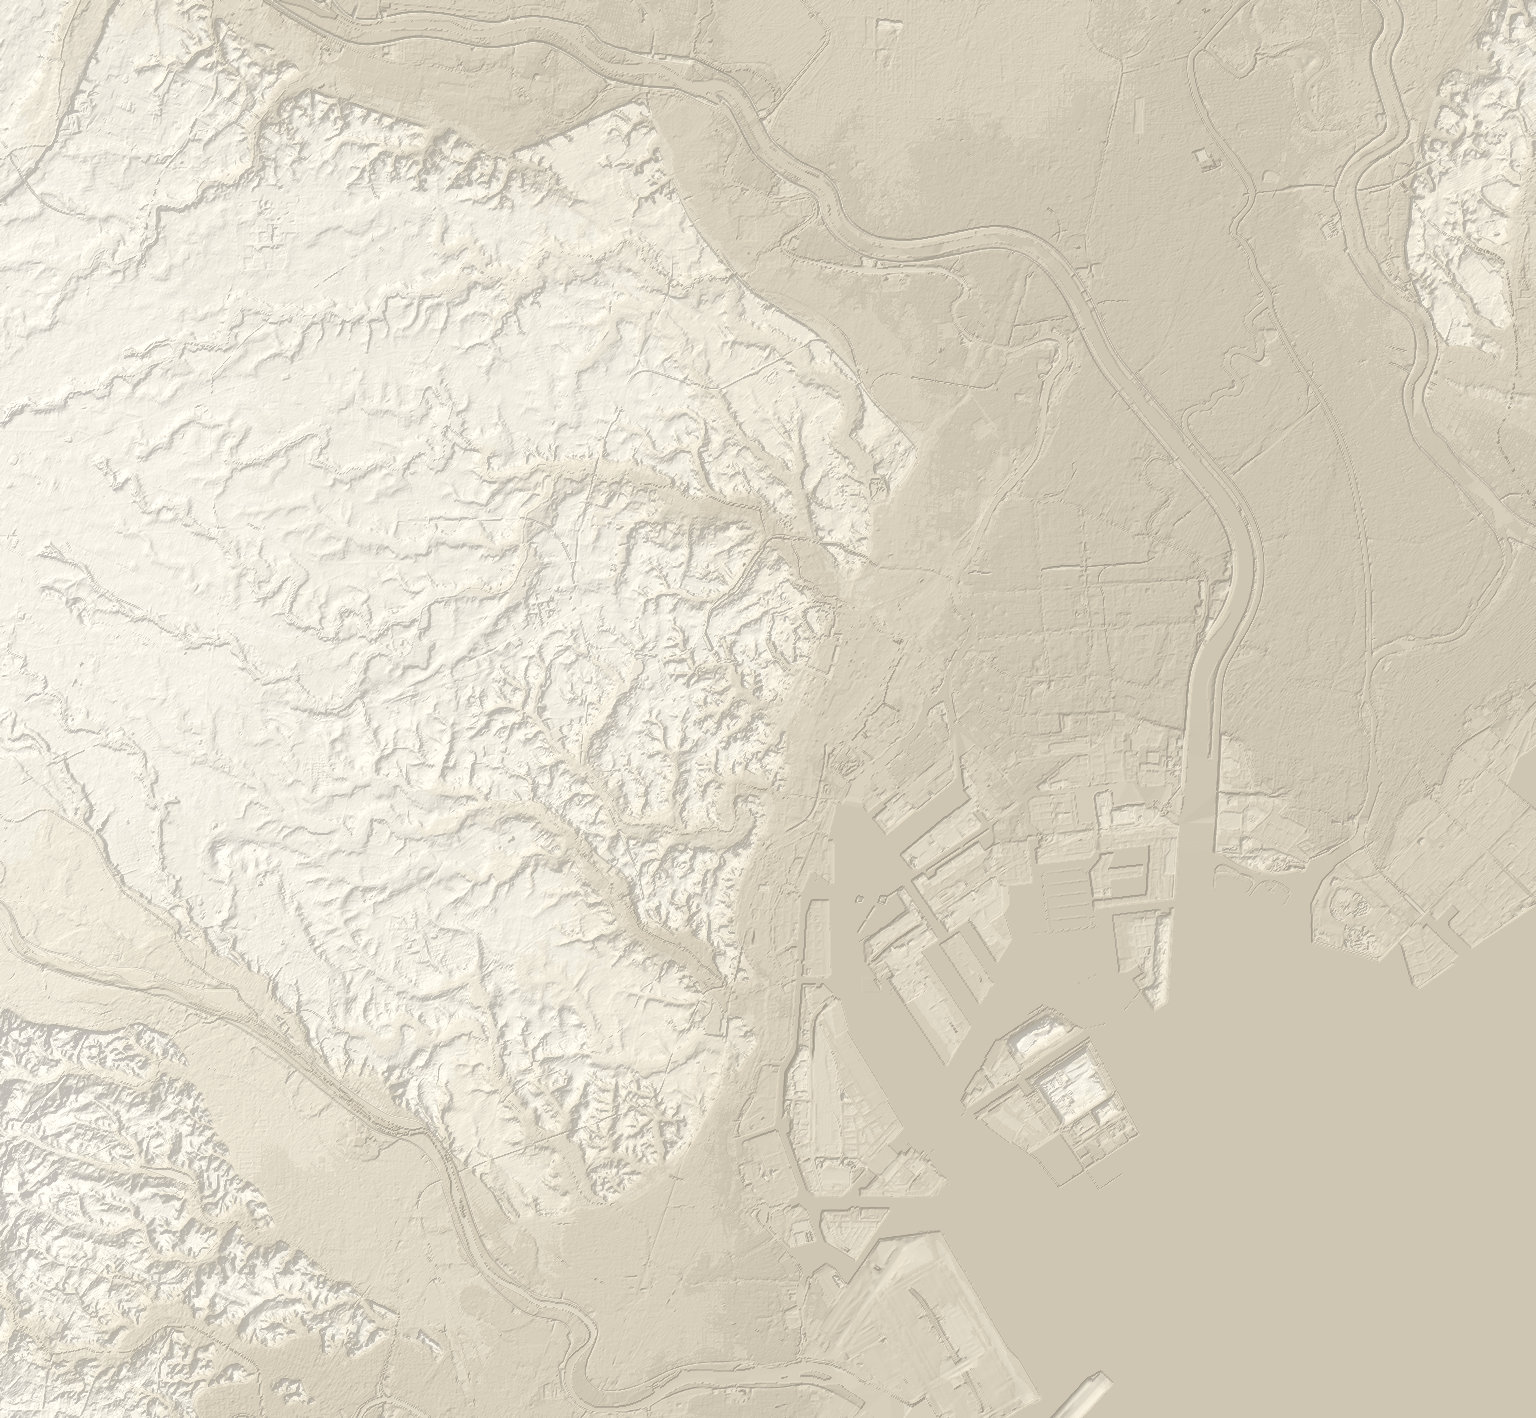
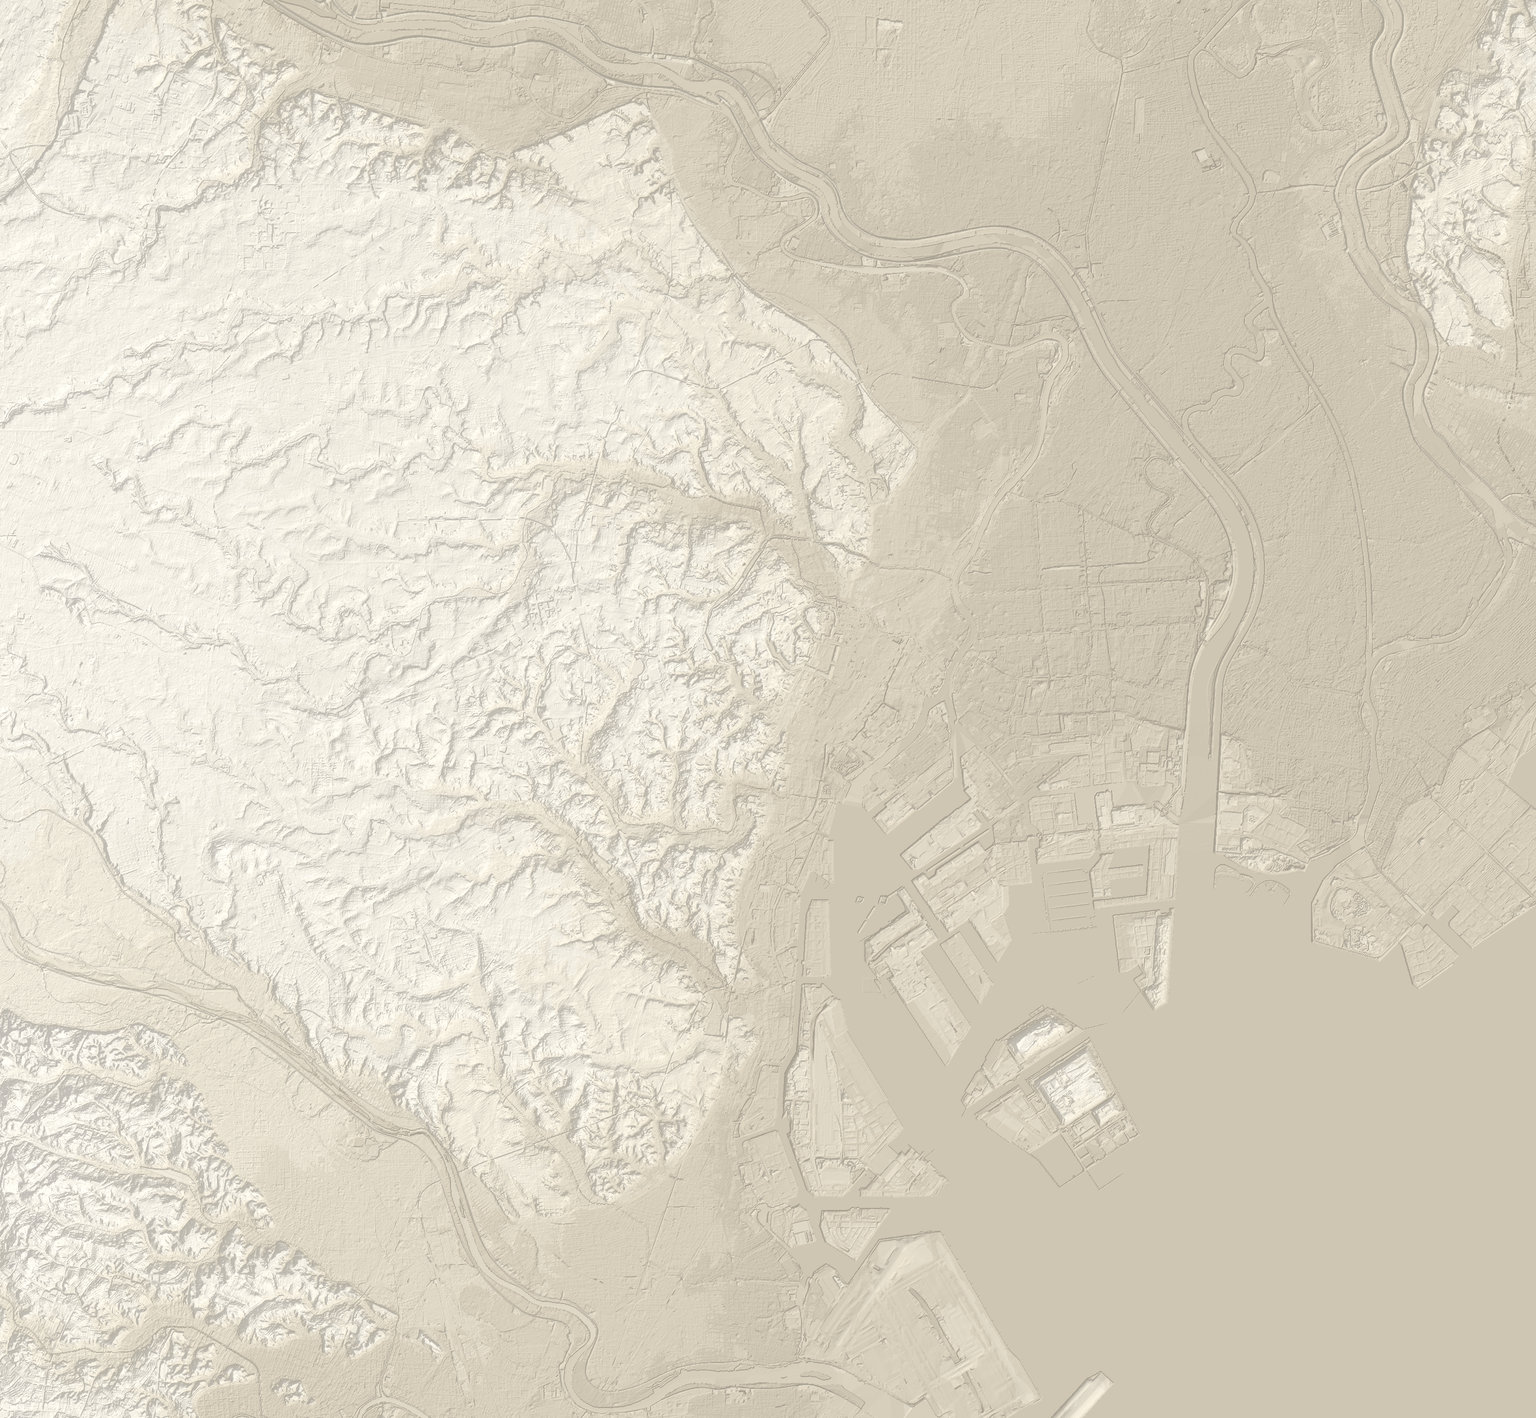
fix: 地形圖分兩級，拉近才換大的；順手修好按不到的「全圖」鈕
回報：拉近時地形畫質沒有提升，粗顆粒看起來像地形概念圖。

量出來的：relief.jpg 只有 1536×1418（約 21m/px），而地圖的框是 32.6km 寬。
拉到底時一個影像像素被撐成 12.5 個螢幕像素（DPR2 螢幕上是 25 個）——
標高分帶的硬邊界在那個倍率下變成階梯狀，「概念圖」正是這麼來的。
破口大約就在開場那一格（1.03），再拉近就開始看得見。

素材那側其實還有很多沒用：DEM5A 是 5m 網格（z=15 瓦片約 3.9m/px），
1536 只用掉 18%。焼き直して比べた（同一塊上野台地，各自放到拉到底的倍率）：
  1536  439KB  21.2m/px  → 一團看不出東西
  3072 1795KB  10.6m/px  → 不忍池與台地邊緣的路都回來了
  4096 3175KB   7.9m/px  → 再平滑一些，但增益遞減

取 3072。1536→3072 才是有效的那一段，3072→4096 是兩倍的重量換 1.33 倍；
而且展開後佔 35MB 對 62MB，手機上那個差別比畫質差別更要緊。要改只是動 HI_W。

一開始就載 1.8MB 會拖慢開場，所以分兩級：relief.jpg（440KB）先載，
等到「一個影像像素被撐成 1.5 個螢幕像素以上」才去換 relief-hi.jpg。
先載好再換 href——直接換中間會空一格，那比顆粒難看。
兩張由 fetch-dem.py 一次焼く（基本版從詳細版縮，不另外焼）：一次 --write 兩張都新，
不會有一張舊的。

🔴 順手修一個沒被回報的：手機上「全圖」鈕**看得到但按不到**。
#bar 是整片的，上半是透明漸層看起來什麼都沒有，卻把點擊全吃掉；
手機上它從 y=521 起算，正好蓋住縮放那一疊的最後一顆（428–536）。
桌機是 739 對 740，差一格躲過去，所以一直沒發現。
改法不是把鈕挪開，是讓空的地方透過去：#bar 收 pointer-events:none、滑桿自己收回
auto。驗過滑桿照樣拖得動（1000→136），時間軸那一帶現在也能直接拖地圖。

check-map 加驗這兩條：開場不該去載 1.8MB 的大圖、拉到底必須換成大的。
兩個方向壞掉都不會噴錯，一個只是開場變慢，一個只是地形變回概念圖。

diff --git a/src/map.js b/src/map.js
@@ -88,7 +88,7 @@ export function createMap(svg, views, geo, places, onPick) {
          そして §2.10 視点狩りは「地形を読め」と要求しているのに、
          この段差が地図に一本も描かれていなかった。
          紙と同じ等距円筒に焼き直してあるので、そのまま枠に貼れば重なる。 -->
-    <image href="data/geo/relief.jpg" x="0" y="0" width="${W}" height="${H}"
+    <image id="relief" href="data/geo/relief.jpg" x="0" y="0" width="${W}" height="${H}"
            preserveAspectRatio="none" opacity=".62"/>
     <path id="park" d="${multi(geo.park)}Z" fill="#b9c4a6" opacity=".5"/>
     <!-- 寺社の境内。江戸は寺の町——寺町はまとめて配置された都市計画の産物で、
@@ -299,9 +299,32 @@ export function createMap(svg, views, geo, places, onPick) {
   // 平移縮放：直接改 viewBox，不需要任何函式庫
   let vb = { x: 0, y: 0, w: W, h: H };
   let onChange = () => {};
+  // 🔴 地形圖有兩級，拉近了才換大的。
+  //
+  // 一張是不夠的：地圖可以縮放，而 relief.jpg 是 1536px（約 21m/px）——
+  // 拉到底時一個影像像素被撐成 12.5 個螢幕像素，地形就成了一張粗顆粒的
+  // 「概念圖」（實際被回報過）。但一開始就載 3072 那張，開場要多等 1.8MB。
+  // 所以：先用小的，等到真的看得出顆粒再換。兩張都由 tools/fetch-dem.py 一次焼く。
+  const reliefEl = svg.querySelector('#relief');
+  const RELIEF_BASE = 1536;                  // data/geo/relief.jpg 的寬度
+  let hiAsked = false;
+  const upgradeRelief = () => {
+    if (hiAsked) return;
+    const r = svg.getBoundingClientRect();
+    if (!r.width) return;
+    const s = Math.max(r.width / vb.w, r.height / vb.h);        // slice 的倍率
+    // 一個影像像素被撐成幾個螢幕像素。1.5 以下看不出來，以上開始有顆粒感。
+    if (s * W / RELIEF_BASE < 1.5) return;
+    hiAsked = true;
+    const big = new Image();
+    // 先載好再換 href。直接換的話中間會有一格空白——那比顆粒難看得多。
+    big.onload = () => reliefEl.setAttribute('href', big.src);
+    big.src = 'data/geo/relief-hi.jpg';
+  };
+
   const apply = () => {
     svg.setAttribute('viewBox', `${vb.x} ${vb.y} ${vb.w} ${vb.h}`);
-    relabel(); onChange();
+    relabel(); upgradeRelief(); onChange();
   };
   const toSvg = e => {
     const r = svg.getBoundingClientRect();

diff --git a/index.html b/index.html
@@ -117,8 +117,15 @@
   button:hover { background:#ffffff2e }
   button.ghost { background:none }
 
+  /* 🔴 pointer-events:none——這一條是整片的，而且上半是透明漸層，看起來什麼都沒有，
+     卻會把落在上面的點擊全部吃掉。手機上它從 y=521 起算，正好蓋住縮放那一疊的
+     最後一顆「全圖」（428–536），變成一顆看得到卻按不到的鈕（桌機 739 對 740，
+     差一格躲過去了，所以一直沒被發現）。
+     擋住的是「空的地方」，所以讓空的地方透過去，滑桿自己收回 auto 就好。
+     順帶好處：時間軸那一帶也能直接拖地圖了。 */
   #bar { position:fixed; left:0; right:0; bottom:0; padding:12px 20px 18px; text-align:center;
-         background:linear-gradient(transparent,#0e2233cc 40%) }
+         pointer-events:none; background:linear-gradient(transparent,#0e2233cc 40%) }
+  #bar #era { pointer-events:auto }
   #era { width:min(420px,60vw); accent-color:var(--gold); vertical-align:middle }
   #bar label { font-size:12px; opacity:.7; margin:0 10px }
   /* 拖動時的讀數。固定高度，不然出現／消失時整條 bar 會跳。 */

diff --git a/tools/fetch-dem.py b/tools/fetch-dem.py
@@ -41,7 +41,24 @@ BASE = "https://cyberjapandata.gsi.go.jp/xyz"
 SOURCES = [("dem5a_png", 15), ("dem_png", 14)]
 # src/map.js の B と同じ枠。ここがずれたら地形だけ別の場所を指す
 S, W_, N, E = 35.535, 139.565, 35.805, 139.925
-OUT_W, OUT_H = 1536, 1418    # 1000×923（地図の紙）と同じ比。約 21m/px
+# 出力サイズ。1000×923（地図の紙）と同じ比を保つこと。--size で変えられる。
+# 1536 は約 21m/px。DEM5A は 5m メッシュ（z=15 のタイルで約 3.9m/px）なので
+# 素材の側はもっと出せる——どこまで出すかは data/geo の重さとの相談。
+OUT_W, OUT_H = 1536, 1418
+# 🔴 二段で焼く。地図は拡大できるので一枚では足りない——1536 は約 21m/px、
+# いちばん寄ったところでは 1 画素が画面の 12.5 画素に伸びて、地形が「概念図」に
+# 見えてしまう（実際にそう報告された）。かといって詳細版を最初から読ませると
+# 開始が重い。だから：
+#   relief.jpg     1536（439KB）  最初に読む。引いて見るぶんにはこれで足りる
+#   relief-hi.jpg  3072（1.8MB）  粒が見え始めたら差し替える（src/map.js）
+# 4096（3.2MB, 7.9m/px）も焼けるが、3072 で構造はもう戻る。効くのは 1536→3072 の
+# ほうで、3072→4096 は倍の重さで 1.33 倍にしかならない。展開後のメモリも
+# 35MB 対 62MB——携帯ではその差のほうが効く。上げたければ HI_W を変えるだけ。
+#
+# 詳細版から縮めて基本版を作る（別々に焼かない）：面積平均で縮めるほうがきれいだし、
+# 二度焼く時間も要らない。そして何より**一度の --write で両方が出る**——
+# 片方だけ古いという事故が起きない。
+HI_W = 3072
 
 
 def txf(lon, z): return (lon + 180) / 360 * 2 ** z
@@ -140,9 +157,14 @@ ZFACTOR = 14
 
 
 def main():
+    global OUT_W, OUT_H          # 関数の先頭で宣言すること（既定値でも参照は参照）
     ap = argparse.ArgumentParser()
     ap.add_argument("--write", action="store_true")
+    ap.add_argument("--size", type=int, default=HI_W, help=f"詳細版の横幅（既定 {HI_W}）")
+    ap.add_argument("--quality", type=int, default=85)
     args = ap.parse_args()
+    OUT_W = args.size
+    OUT_H = round(OUT_W * 923 / 1000)      # 地図の紙と同じ比を崩さない
 
     z = np.full((OUT_H, OUT_W), np.nan, dtype=np.float32)
     for src, lvl in SOURCES:
@@ -214,14 +236,26 @@ def main():
     # 4:4:4（subsampling=0）にしているのは、色差を間引くと標高帯の境目が
     # にじむから——帯の境目こそこの図が伝えたいものなので。
     buf = io.BytesIO()
-    img.save(buf, "JPEG", quality=85, subsampling=0, optimize=True)
+    img.save(buf, "JPEG", quality=args.quality, subsampling=0, optimize=True)
     kb = buf.tell() / 1024
-    print(f"\n{OUT_W}×{OUT_H}  {kb:.0f}KB")
-    assert kb < 600, f"{kb:.0f}KB は大きすぎる"
-    out = ROOT / "data" / "geo" / "relief.jpg"
+    mpx = OUT_W * OUT_H / 1e6
+    m_per_px = (E - W_) * 111320 * math.cos(math.radians((N + S) / 2)) / OUT_W
+    print(f"\n{OUT_W}×{OUT_H}  {kb:.0f}KB  ({mpx:.2f}MP, {kb/mpx:.0f}KB/MP, {m_per_px:.1f}m/px)")
+    # 1 メガ画素あたりで見る。絶対値で縛ると --size を上げた瞬間に必ず落ちる
+    assert kb / mpx < 320, f"{kb/mpx:.0f}KB/MP は大きすぎる（圧縮が効いていない）"
+    # 基本版は詳細版を縮めて作る。別に焼き直さない（上の HI_W のところ参照）
+    base = img.resize((1536, 1418), Image.LANCZOS)
+    bbuf = io.BytesIO()
+    base.save(bbuf, "JPEG", quality=args.quality, subsampling=0, optimize=True)
+    bkb = bbuf.tell() / 1024
+    print(f"1536×1418  {bkb:.0f}KB  (21.2m/px)  ← 最初に読むほう")
+    assert bkb < 600, f"基本版 {bkb:.0f}KB は大きすぎる"
+
+    geo = ROOT / "data" / "geo"
     if args.write:
-        out.write_bytes(buf.getvalue())
-        print(f"書き出した {out.relative_to(ROOT)}")
+        (geo / "relief-hi.jpg").write_bytes(buf.getvalue())
+        (geo / "relief.jpg").write_bytes(bbuf.getvalue())
+        print("書き出した data/geo/relief.jpg ＋ relief-hi.jpg")
     else:
         print("（--write で書き出し）")
     print("self-check ok")

diff --git a/README.md b/README.md
@@ -60,7 +60,7 @@ python3 tools/make-thumbs.py                 # 歲時記縮圖
 python3 tools/fetch-kiriezu.py --assets      # 江戶切繪圖 29 張
 python3 tools/fetch-intro.py                 # 開場的鳥瞰圖（順便量出畫心）
 python3 tools/fetch-osm.py                   # 街圖向量 data/geo/modern.json（已含在 repo）
-python3 tools/fetch-dem.py --write           # 標高 data/geo/relief.jpg（已含在 repo）
+python3 tools/fetch-dem.py --write           # 標高 relief.jpg ＋ relief-hi.jpg（已含在 repo）
 python3 tools/fetch-bgm.py --write           # 配樂旋律 data/bgm.json（已含在 repo）
 ```
 
